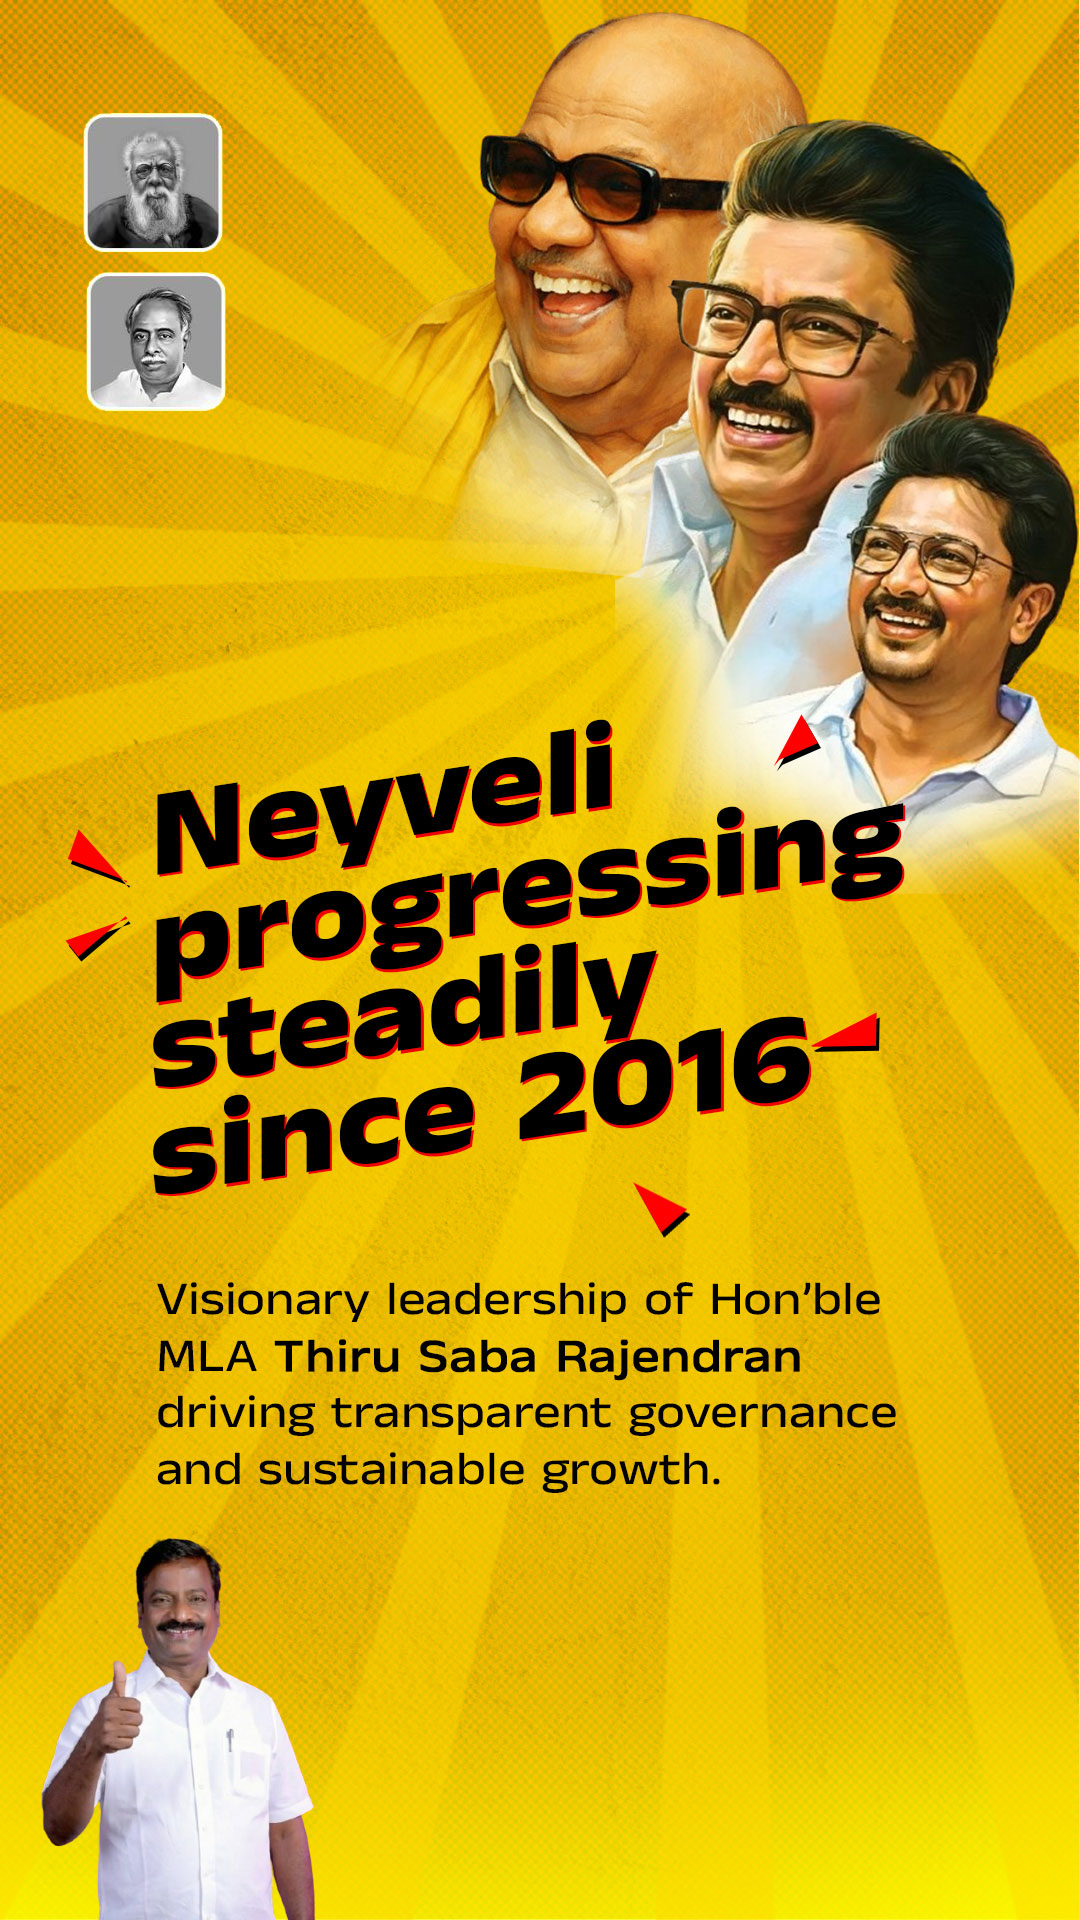
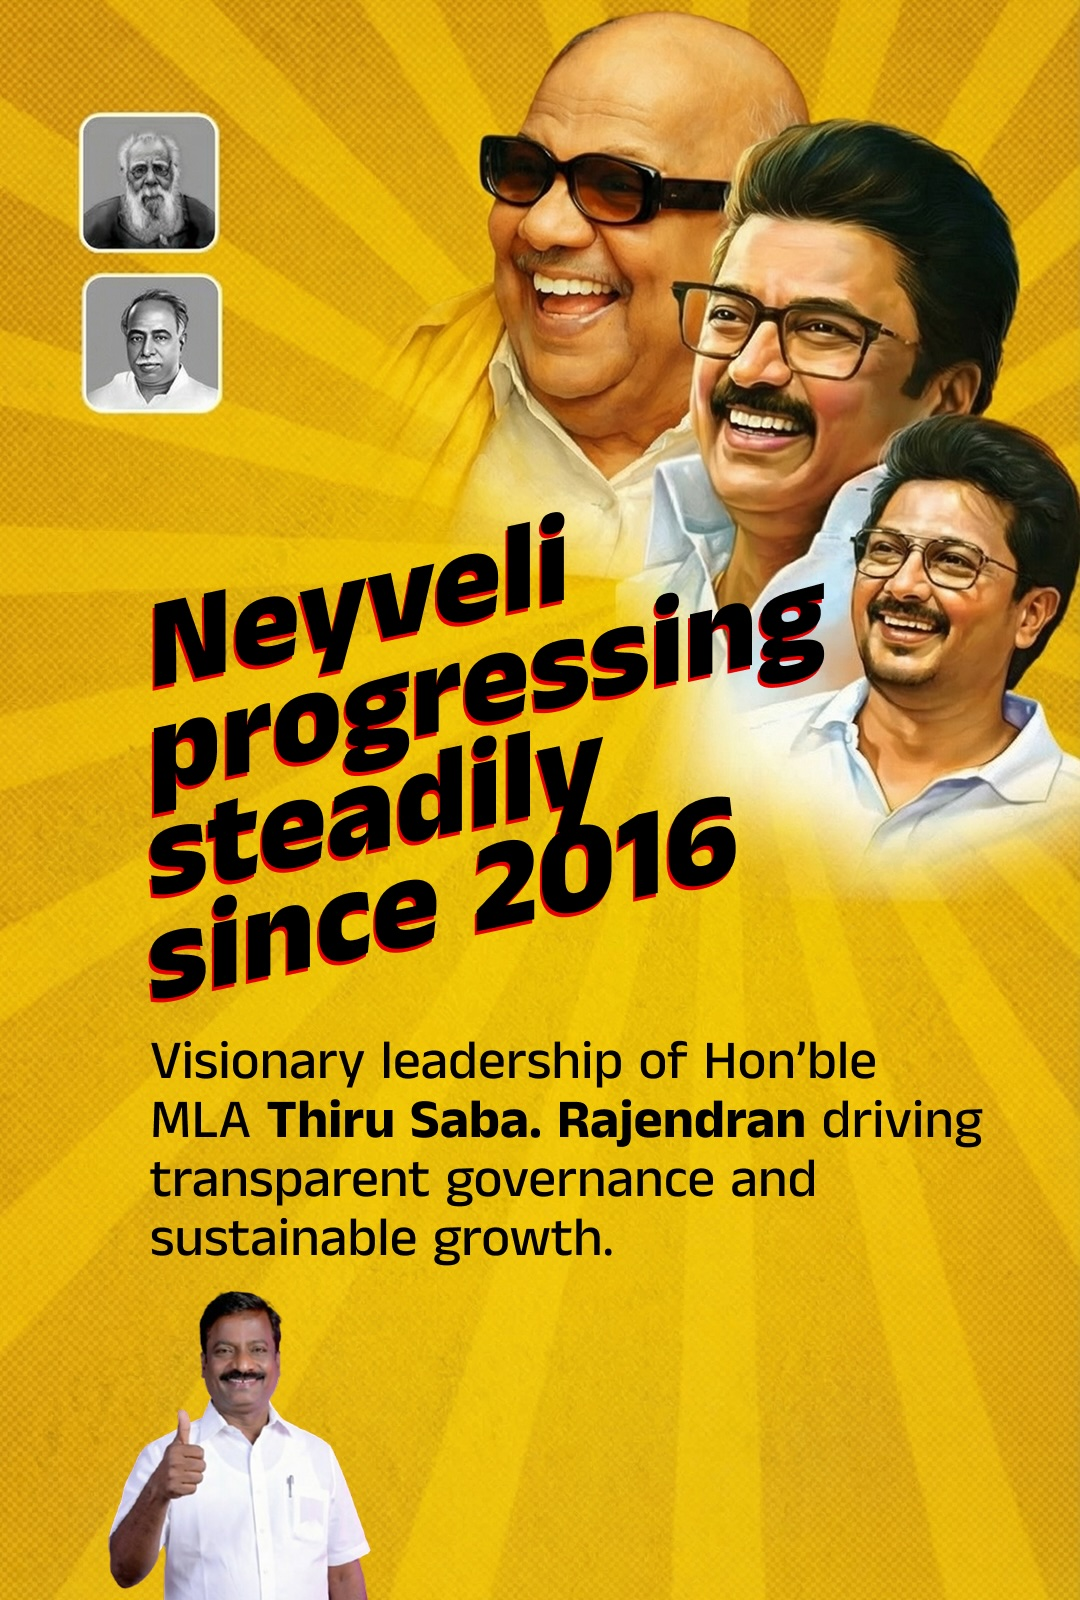
Refine UI: Update StickyProjectBar, CSS, and hero images

diff --git a/projects-frontend-react/components/StickyProjectBar.tsx b/projects-frontend-react/components/StickyProjectBar.tsx
@@ -29,7 +29,7 @@ export const StickyProjectBar: React.FC = () => {
 
     return (
         <div className="fixed bottom-0 left-0 right-0 z-50 p-4 pointer-events-none">
-            <div className={`max-w-4xl mx-auto bg-green-600 border-t-4 border-primary-600 shadow-2xl flex items-center transition-all duration-500 ease-in-out pointer-events-auto ${isDismissed
+            <div className={`max-w-4xl mx-auto bg-secondary-900 border-t-4 border-primary-600 shadow-2xl flex items-center transition-all duration-500 ease-in-out pointer-events-auto ${isDismissed
                 ? 'w-auto rounded-full px-2 py-2 transform translate-y-[-20px] md:translate-y-0 float-right'
                 : 'justify-between p-4 md:px-8 rounded-t-xl md:rounded-xl w-full'
                 }`}>
@@ -45,11 +45,11 @@ export const StickyProjectBar: React.FC = () => {
                 <div className={`flex items-center gap-3 ${isDismissed ? 'w-full' : ''}`}>
                     <button
                         onClick={() => navigate(`${langPrefix}/projects`)}
-                        className={`flex items-center gap-2 bg-primary-600 hover:bg-white hover:text-black text-white font-bold uppercase tracking-wider transition-all duration-300 shadow-[4px_4px_0_0_#ffffff] hover:shadow-[4px_4px_0_0_#primary-600] border-2 border-transparent hover:border-black ${isDismissed ? 'px-4 py-2 text-sm rounded-full' : 'px-5 py-2.5 rounded-none'
+                        className={`flex items-center gap-2 bg-red-600 hover:bg-red-500 text-white font-bold uppercase tracking-wider transition-all duration-300 border-2 border-red-700 animate-pulse-glow-bright ${isDismissed ? 'px-4 py-2 text-sm rounded-full' : 'px-5 py-2.5 rounded-none'
                             }`}
                     >
                         <span className="whitespace-nowrap">{t.home.stickyBar.button}</span>
-                        <ArrowRight size={isDismissed ? 16 : 18} strokeWidth={3} />
+                        <ArrowRight size={isDismissed ? 16 : 18} strokeWidth={3} className="animate-bounce-x" />
                     </button>
 
                     {!isDismissed && (

diff --git a/projects-frontend-react/index.css b/projects-frontend-react/index.css
@@ -240,3 +240,54 @@ html {
 .animate-gentle-pulse {
   animation: gentle-pulse 2s ease-in-out infinite;
 }
+
+/* Pulse Glow Animation for CTA buttons */
+@keyframes pulse-glow {
+
+  0%,
+  100% {
+    box-shadow: 4px 4px 0 #000000, 0 0 20px rgba(185, 28, 28, 0.4);
+  }
+
+  50% {
+    box-shadow: 4px 4px 0 #000000, 0 0 35px rgba(185, 28, 28, 0.7);
+  }
+}
+
+.animate-pulse-glow {
+  animation: pulse-glow 2s ease-in-out infinite;
+}
+
+/* Bounce X Animation for arrows */
+@keyframes bounce-x {
+
+  0%,
+  100% {
+    transform: translateX(0);
+  }
+
+  50% {
+    transform: translateX(5px);
+  }
+}
+
+.animate-bounce-x {
+  animation: bounce-x 1s ease-in-out infinite;
+}
+
+/* Brighter Pulse Glow Animation for CTA buttons */
+@keyframes pulse-glow-bright {
+
+  0%,
+  100% {
+    box-shadow: 4px 4px 0 #000000, 0 0 25px rgba(239, 68, 68, 0.6), 0 0 50px rgba(239, 68, 68, 0.3);
+  }
+
+  50% {
+    box-shadow: 4px 4px 0 #000000, 0 0 40px rgba(239, 68, 68, 0.8), 0 0 80px rgba(239, 68, 68, 0.5);
+  }
+}
+
+.animate-pulse-glow-bright {
+  animation: pulse-glow-bright 1.5s ease-in-out infinite;
+}
